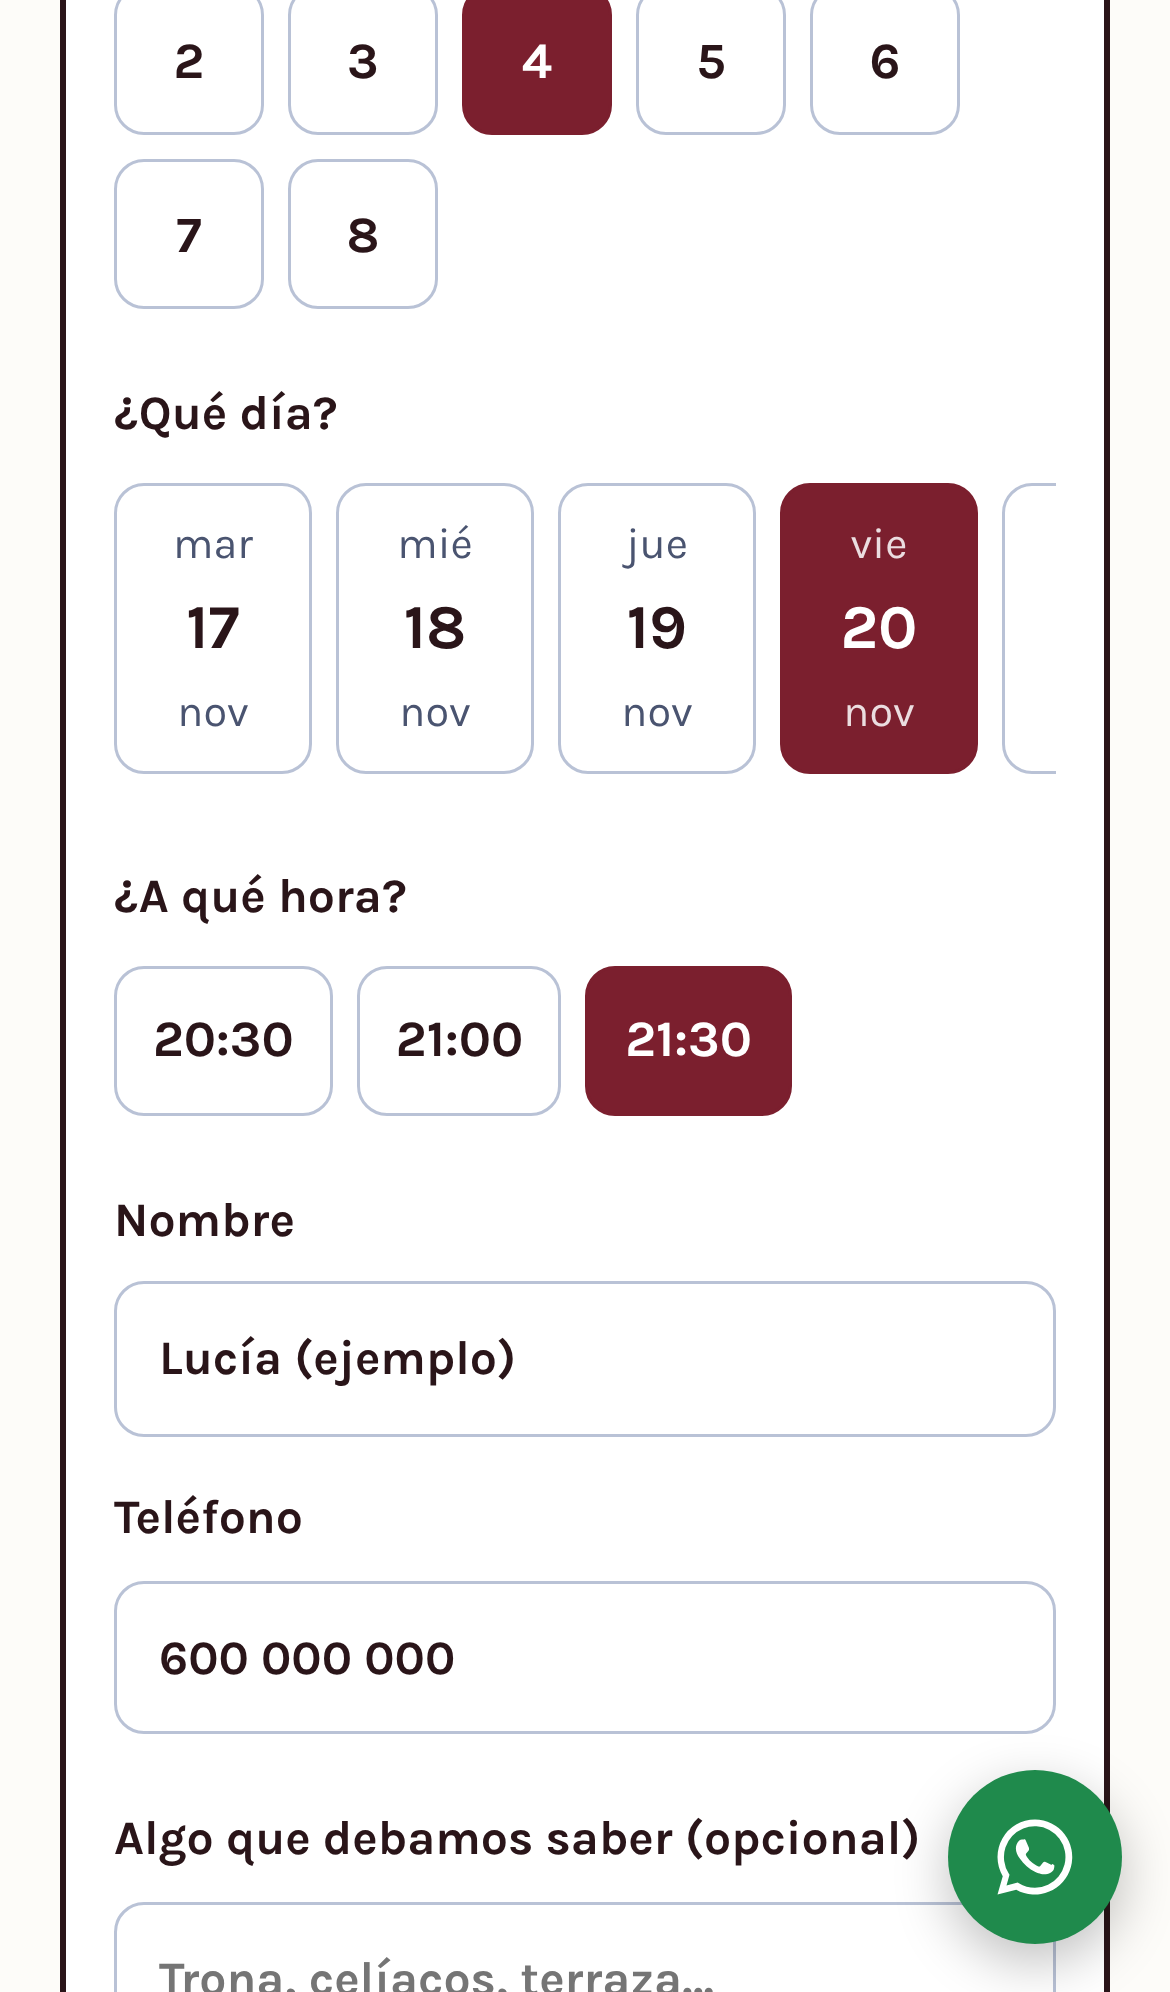
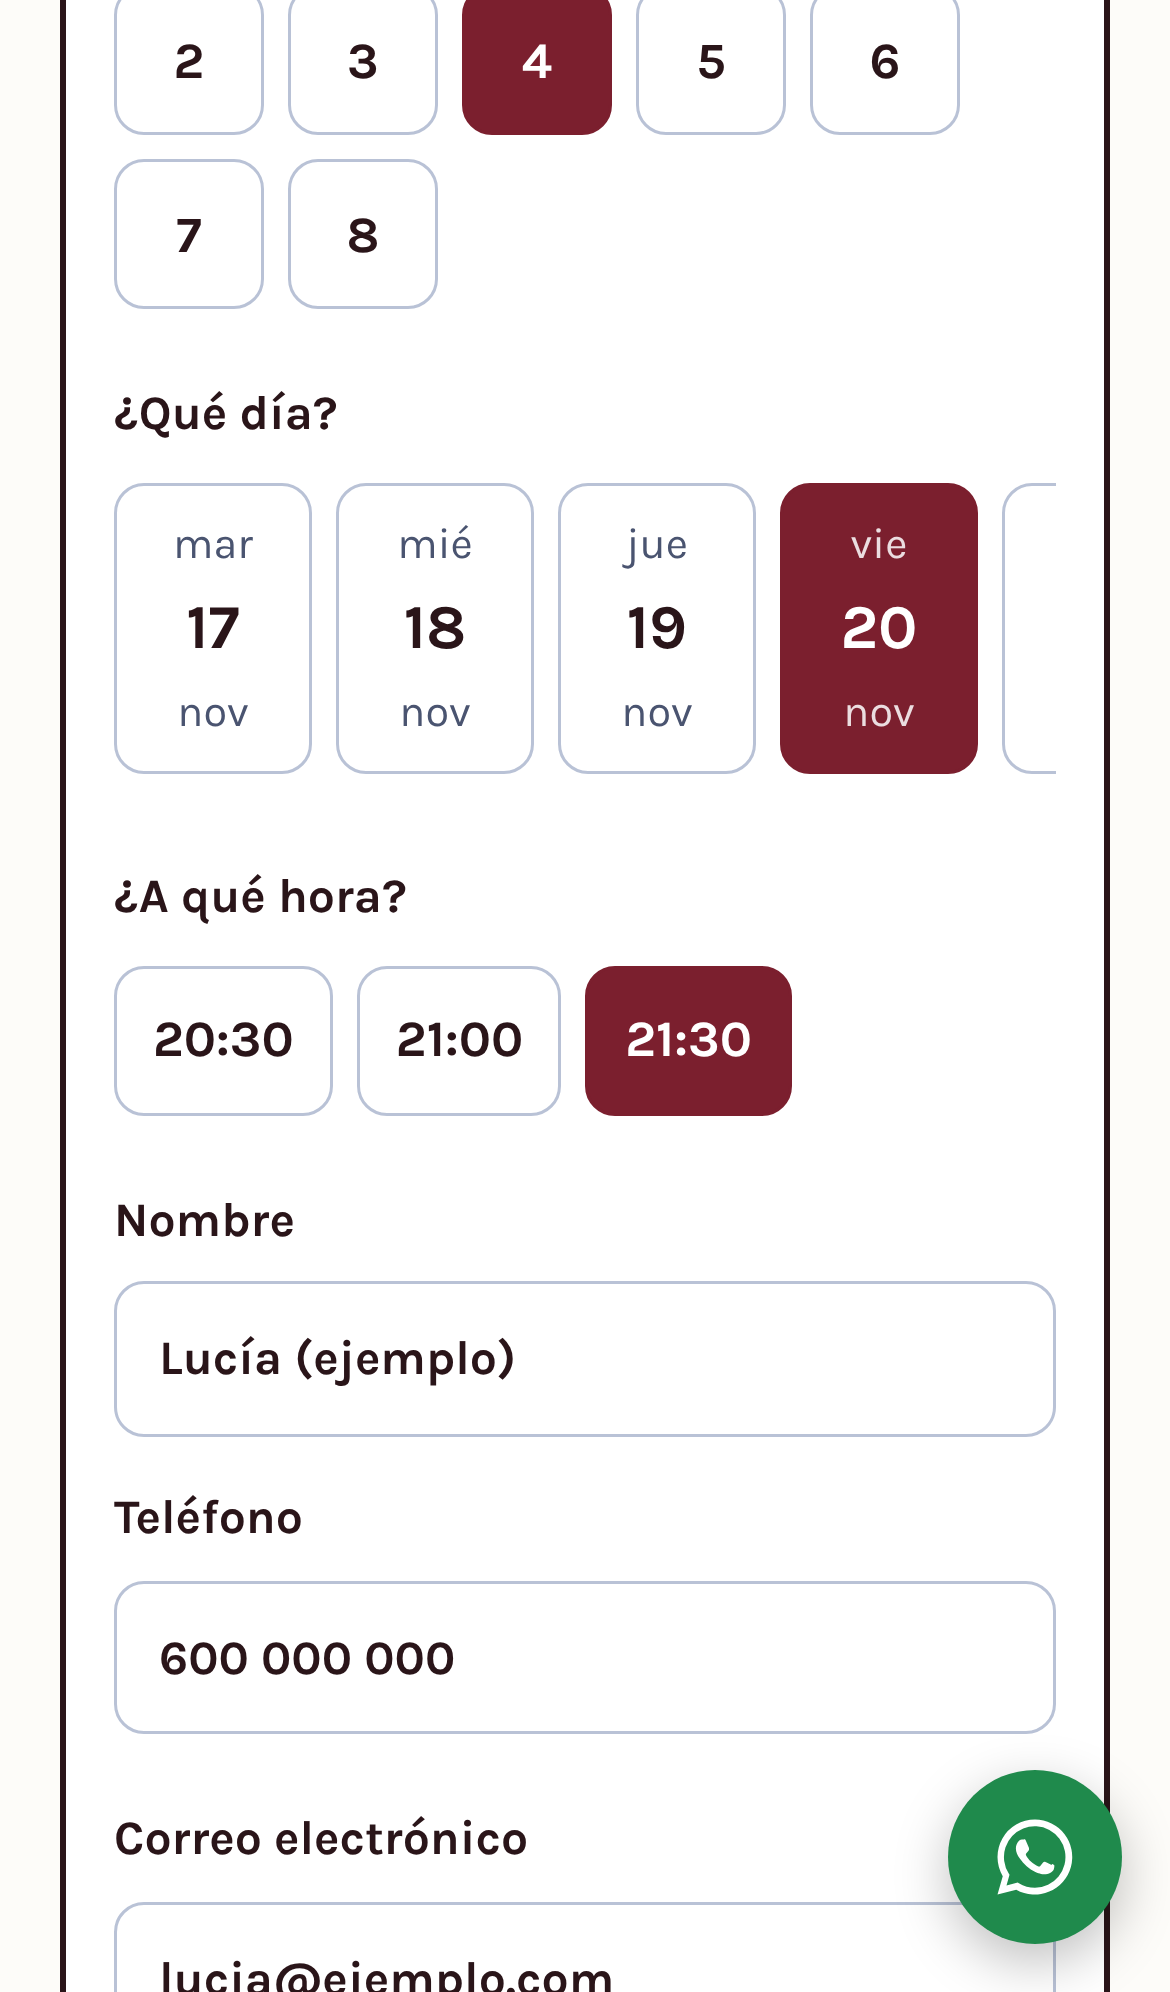
Reservas: correo obligatorio en el formulario y función de correos (confirmación, recordatorio y reseña)

Changed region(s): [[0.1231, 0.9649, 0.6154, 1.0], [0.0923, 0.9026, 0.8, 0.9337]]

diff --git a/taller/reservas/correos/index.ts b/taller/reservas/correos/index.ts
@@ -1,0 +1,70 @@
+// Función reservas-correos (Supabase Edge Function).
+// Manda a los clientes de las reservas: confirmación al reservar, recordatorio el día y, después, petición de reseña.
+// Solo para negocios con negocios.config.correos.activo = true. Sin RESEND_API_KEY no envía nada.
+// La llaman: el disparador al entrar una reserva (confirmación al momento) y pg_cron cada 15 min.
+// config.correos = { "activo": true, "telefono": "637847114", "whatsapp": "34637847114", "responder_a": "negocio@…",
+//                    "direccion": "Calle …", "resena_url": "https://g.page/r/…/review" }
+import { createClient } from "https://esm.sh/@supabase/supabase-js@2";
+
+const KEY = Deno.env.get("RESEND_API_KEY");
+const FROM = Deno.env.get("RESEND_FROM") || "reservas@iando.xyz";
+const db = createClient(Deno.env.get("SUPABASE_URL")!, Deno.env.get("SUPABASE_SERVICE_ROLE_KEY")!);
+
+const esc = (s: unknown) => String(s ?? "").replace(/[&<>"']/g, (c) => ({ "&": "&amp;", "<": "&lt;", ">": "&gt;", '"': "&quot;", "'": "&#39;" }[c]!));
+const hex = (v: unknown, d: string) => (typeof v === "string" && /^#[0-9a-f]{3,8}$/i.test(v) ? v : d);
+const fechaLarga = (f: string) => new Date(f + "T12:00:00").toLocaleDateString("es-ES", { weekday: "long", day: "numeric", month: "long", timeZone: "Europe/Madrid" });
+
+type P = { reserva_id: string; tipo: "confirmacion" | "recordatorio" | "resena"; email: string; nombre: string; servicio: string;
+  fecha: string; hora: string; duracion: number; notas: string | null; negocio: string; config: any };
+
+function correo(p: P) {
+  const t = p.config?.tema || {}, c = t.colores || {}, k = p.config?.correos || {};
+  const nom = t.nombre || p.negocio, oscuro = hex(c.oscuro, "#1d2320"), prim = hex(c.primario, "#1f3a2c"), fondo = hex(c.fondo, "#f6f5f1");
+  const hora = String(p.hora).slice(0, 5), dia = fechaLarga(p.fecha), pila = esc(String(p.nombre || "").split(" ")[0]);
+  const wa = /^\d{11,13}$/.test(k.whatsapp || "") ? `https://wa.me/${k.whatsapp}` : "";
+  const tel = /^\d{9}$/.test(k.telefono || "") ? k.telefono : "";
+  const contacto = wa || tel ? `<p style="margin:16px 0 0;font-size:15px;color:#555">¿Necesitas cambiarla o anularla? ${wa ? `<a href="${wa}" style="color:${prim}">Escríbenos por WhatsApp</a>` : ""}${wa && tel ? " o llama al " : tel ? "Llámanos al " : ""}${tel ? `<a href="tel:+34${tel}" style="color:${prim}">${tel.replace(/(\d{3})(\d{3})(\d{3})/, "$1 $2 $3")}</a>` : ""}.</p>` : "";
+  const ficha = `<table role="presentation" style="width:100%;border-collapse:collapse;margin:18px 0;background:${fondo};border-radius:10px">
+    <tr><td style="padding:14px 16px;font-size:16px;line-height:1.6;color:#222"><b>${esc(p.servicio)}</b><br>${esc(dia)} a las <b>${hora}</b>${p.notas ? `<br><span style="color:#555">${esc(p.notas)}</span>` : ""}${k.direccion ? `<br><span style="color:#555">${esc(k.direccion)}</span>` : ""}</td></tr></table>`;
+  let asunto = "", cuerpo = "";
+  if (p.tipo === "confirmacion") {
+    asunto = `Reserva confirmada: ${dia} a las ${hora}`;
+    cuerpo = `<h1 style="margin:0 0 8px;font-size:24px;color:#111">¡Hecho, ${pila}!</h1><p style="margin:0;font-size:16px;color:#333">Tu reserva en ${esc(nom)} está apuntada.</p>${ficha}${contacto}`;
+  } else if (p.tipo === "recordatorio") {
+    const hoy = new Date().toLocaleDateString("en-CA", { timeZone: "Europe/Madrid" }) === p.fecha;
+    asunto = `${hoy ? "Hoy" : "Mañana"} a las ${hora} en ${nom}`;
+    cuerpo = `<h1 style="margin:0 0 8px;font-size:24px;color:#111">${hoy ? "Hoy" : "Mañana"} te esperamos</h1><p style="margin:0;font-size:16px;color:#333">Te recordamos tu reserva en ${esc(nom)}.</p>${ficha}${contacto}`;
+  } else {
+    asunto = `¿Qué tal en ${nom}?`;
+    cuerpo = `<h1 style="margin:0 0 8px;font-size:24px;color:#111">Gracias por venir, ${pila}</h1><p style="margin:0 0 20px;font-size:16px;color:#333">Si te gustó, nos ayuda mucho que lo cuentes en Google. Es un minuto.</p>
+      <p style="margin:0"><a href="${esc(k.resena_url)}" style="display:inline-block;background:${prim};color:#fff;text-decoration:none;font-weight:bold;padding:14px 22px;border-radius:10px;font-size:16px">Dejar mi opinión</a></p>`;
+  }
+  const html = `<!doctype html><html lang="es"><body style="margin:0;background:#eeeeee;font-family:Arial,Helvetica,sans-serif">
+  <table role="presentation" style="width:100%;border-collapse:collapse"><tr><td align="center" style="padding:24px 12px">
+  <table role="presentation" style="width:100%;max-width:560px;border-collapse:collapse;background:#fff;border-radius:14px;overflow:hidden">
+  <tr><td style="background:${oscuro};padding:18px 24px;color:#fff;font-size:20px;font-weight:bold">${esc(nom)}</td></tr>
+  <tr><td style="padding:26px 24px 30px">${cuerpo}</td></tr></table>
+  <p style="font-size:12px;color:#888;margin:14px 0 0">Recibes este correo por tu reserva en ${esc(nom)}.</p></td></tr></table></body></html>`;
+  return { asunto, html, nom, responder: typeof k.responder_a === "string" && k.responder_a.includes("@") ? k.responder_a : undefined };
+}
+
+Deno.serve(async () => {
+  const { data, error } = await db.rpc("correos_pendientes");
+  if (error) return Response.json({ ok: false, error: error.message }, { status: 500 });
+  const lista = (data || []) as P[];
+  if (!KEY) return Response.json({ ok: true, sin_clave: true, pendientes: lista.length });
+  const res: Record<string, number> = { enviados: 0, fallos: 0 };
+  for (const p of lista) {
+    const tag = "email_" + p.tipo;
+    const { data: mio } = await db.rpc("reclamar_aviso", { p_reserva: p.reserva_id, p_tag: tag });
+    if (!mio) continue;
+    const m = correo(p);
+    const r = await fetch("https://api.resend.com/emails", {
+      method: "POST", headers: { Authorization: `Bearer ${KEY}`, "Content-Type": "application/json" },
+      body: JSON.stringify({ from: `${m.nom} <${FROM}>`, to: [p.email], subject: m.asunto, html: m.html, reply_to: m.responder }),
+    });
+    if (r.ok) res.enviados++;
+    else { res.fallos++; console.error("resend", r.status, await r.text()); await db.rpc("soltar_aviso", { p_reserva: p.reserva_id, p_tag: tag }); }
+  }
+  return Response.json({ ok: true, ...res });
+});

diff --git a/demos/bar-ejemplo/index.html b/demos/bar-ejemplo/index.html
@@ -317,8 +317,9 @@
             <label>Nombre<input id="rv-nombre" autocomplete="name" maxlength="120" required></label>
             <label>Teléfono<input id="rv-tel" type="tel" inputmode="tel" autocomplete="tel" maxlength="20" placeholder="600 000 000" required></label>
           </div>
+          <label>Correo electrónico<input id="rv-email" type="email" inputmode="email" autocomplete="email" maxlength="160" placeholder="tu@correo.com" required></label>
           <label>Algo que debamos saber (opcional)<textarea id="rv-notas" rows="2" maxlength="400" placeholder="Trona, celíacos, terraza…"></textarea></label>
-          <label class="rv-check"><input type="checkbox" id="rv-ok" required> Acepto que usen mis datos solo para gestionar esta reserva.</label>
+          <label class="rv-check"><input type="checkbox" id="rv-ok" required> Acepto que usen mis datos para gestionar esta reserva y que me envíen por correo la confirmación, un recordatorio y, después, un enlace para dejar mi opinión.</label>
           <div class="resumen" id="rv-resumen" aria-live="polite"><span>Tu mesa:</span> <b id="rv-res-txt">elige turno, personas, día y hora</b></div>
           <button class="btn btn-res" type="submit" id="rv-enviar">Reservar mesa</button>
           <p id="rv-estado" class="rv-estado" role="status" aria-live="polite"></p>
@@ -497,11 +498,13 @@
     if (!sel.hora) return estado("Elige una hora.", "mal");
     if (!nombre) return estado("Escribe tu nombre.", "mal");
     if (!/^(34)?[6-9]\d{8}$/.test(tel)) return estado("Revisa el teléfono (9 cifras).", "mal");
+    var email = $("rv-email").value.trim();
+    if (!/^[^@\s]+@[^@\s]+\.[a-z]{2,}$/i.test(email)) return estado("Revisa el correo electrónico.", "mal");
     if (!$("rv-ok").checked) return estado("Marca la casilla de privacidad.", "mal");
     var notas = sel.personas + " personas" + ($("rv-notas").value.trim() ? " · " + $("rv-notas").value.trim() : "");
     $("rv-enviar").disabled = true; estado("Reservando…");
     fetch(SB + "/rest/v1/rpc/reservar_hueco", { method: "POST", headers: H, body: JSON.stringify({
-      p_negocio_id: NEGOCIO, p_nombre: nombre, p_telefono: tel.slice(-9), p_email: null,
+      p_negocio_id: NEGOCIO, p_nombre: nombre, p_telefono: tel.slice(-9), p_email: email,
       p_servicio_id: servicios[sel.turno].id, p_fecha: sel.fecha, p_hora: sel.hora, p_notas: notas }) })
       .then(function (r) { return r.json(); })
       .then(function (res) {

diff --git a/demos/taller-ejemplo/index.html b/demos/taller-ejemplo/index.html
@@ -346,8 +346,9 @@
               <label>Nombre<input id="rv-nombre" autocomplete="name" maxlength="120" required></label>
               <label>Teléfono<input id="rv-tel" type="tel" inputmode="tel" autocomplete="tel" maxlength="20" placeholder="600 000 000" required></label>
             </div>
+            <label>Correo electrónico<input id="rv-email" type="email" inputmode="email" autocomplete="email" maxlength="160" placeholder="tu@correo.com" required></label>
             <label>Coche y lo que notas (opcional)<textarea id="rv-notas" rows="2" maxlength="500" placeholder="Modelo, matrícula o lo que le pasa"></textarea></label>
-            <label class="rv-check"><input type="checkbox" id="rv-ok" required> Acepto que usen mis datos solo para gestionar esta cita.</label>
+            <label class="rv-check"><input type="checkbox" id="rv-ok" required> Acepto que usen mis datos para gestionar esta cita y que me envíen por correo la confirmación, un recordatorio y, después, un enlace para dejar mi opinión.</label>
             <button class="btn btn-res" type="submit" id="rv-enviar">Pedir mi cita</button>
             <p id="rv-estado" class="rv-estado" role="status" aria-live="polite"></p>
           </form>
@@ -421,10 +422,12 @@
       if (!hora) return estado("Elige una hora.", "mal");
       if (!nombre) return estado("Escribe tu nombre.", "mal");
       if (!/^(34)?[6-9]\d{8}$/.test(tel)) return estado("Revisa el teléfono (9 cifras).", "mal");
+      var email = $("rv-email").value.trim();
+      if (!/^[^@\s]+@[^@\s]+\.[a-z]{2,}$/i.test(email)) return estado("Revisa el correo electrónico.", "mal");
       if (!$("rv-ok").checked) return estado("Marca la casilla de privacidad.", "mal");
       $("rv-enviar").disabled = true; estado("Pidiendo la cita…");
       fetch(SB + "/rest/v1/rpc/reservar_hueco", { method: "POST", headers: H, body: JSON.stringify({
-        p_negocio_id: NEGOCIO, p_nombre: nombre, p_telefono: tel.slice(-9), p_email: null,
+        p_negocio_id: NEGOCIO, p_nombre: nombre, p_telefono: tel.slice(-9), p_email: email,
         p_servicio_id: serv, p_fecha: $("rv-fecha").value, p_hora: hora, p_notas: $("rv-notas").value.trim() || null }) })
         .then(function (r) { return r.json(); })
         .then(function (res) {

diff --git a/demos/peluqueria-ejemplo/index.html b/demos/peluqueria-ejemplo/index.html
@@ -328,8 +328,9 @@
             <label>Nombre<input id="rv-nombre" autocomplete="name" maxlength="120" required></label>
             <label>Teléfono<input id="rv-tel" type="tel" inputmode="tel" autocomplete="tel" maxlength="20" placeholder="600 000 000" required></label>
           </div>
+          <label>Correo electrónico<input id="rv-email" type="email" inputmode="email" autocomplete="email" maxlength="160" placeholder="tu@correo.com" required></label>
           <label>Comentario (opcional)<textarea id="rv-notas" rows="2" maxlength="500"></textarea></label>
-          <label class="rv-check"><input type="checkbox" id="rv-ok" required> Acepto que usen mis datos solo para gestionar esta cita.</label>
+          <label class="rv-check"><input type="checkbox" id="rv-ok" required> Acepto que usen mis datos para gestionar esta cita y que me envíen por correo la confirmación, un recordatorio y, después, un enlace para dejar mi opinión.</label>
           <button class="btn btn-res" type="submit" id="rv-enviar">Reservar mi cita</button>
           <p id="rv-estado" class="rv-estado" role="status" aria-live="polite"></p>
         </form>
@@ -399,10 +400,12 @@
       if (!hora) return estado("Elige una hora.", "mal");
       if (!nombre) return estado("Escribe tu nombre.", "mal");
       if (!/^(34)?[6-9]\d{8}$/.test(tel)) return estado("Revisa el teléfono (9 cifras).", "mal");
+      var email = $("rv-email").value.trim();
+      if (!/^[^@\s]+@[^@\s]+\.[a-z]{2,}$/i.test(email)) return estado("Revisa el correo electrónico.", "mal");
       if (!$("rv-ok").checked) return estado("Marca la casilla de privacidad.", "mal");
       $("rv-enviar").disabled = true; estado("Reservando…");
       fetch(SB + "/rest/v1/rpc/reservar_hueco", { method: "POST", headers: H, body: JSON.stringify({
-        p_negocio_id: NEGOCIO, p_nombre: nombre, p_telefono: tel.slice(-9), p_email: null,
+        p_negocio_id: NEGOCIO, p_nombre: nombre, p_telefono: tel.slice(-9), p_email: email,
         p_servicio_id: $("rv-serv").value, p_fecha: $("rv-fecha").value, p_hora: hora, p_notas: $("rv-notas").value.trim() || null }) })
         .then(function (r) { return r.json(); })
         .then(function (res) {

diff --git a/taller/reservas/widget-reservas.html b/taller/reservas/widget-reservas.html
@@ -16,8 +16,9 @@
         <label>Nombre<input id="rv-nombre" autocomplete="name" maxlength="120" required></label>
         <label>Teléfono<input id="rv-tel" type="tel" inputmode="tel" autocomplete="tel" maxlength="20" placeholder="600 000 000" required></label>
       </div>
+      <label>Correo electrónico<input id="rv-email" type="email" inputmode="email" autocomplete="email" maxlength="160" placeholder="tu@correo.com" required></label>
       <label>Comentario (opcional)<textarea id="rv-notas" rows="2" maxlength="500"></textarea></label>
-      <label class="rv-check"><input type="checkbox" id="rv-ok" required> Acepto que usen mis datos solo para gestionar esta cita.</label>
+      <label class="rv-check"><input type="checkbox" id="rv-ok" required> Acepto que usen mis datos para gestionar esta cita y que me envíen por correo la confirmación, un recordatorio y, después, un enlace para dejar mi opinión.</label>
       <button class="btn btn-wa" type="submit" id="rv-enviar">Reservar</button>
       <p id="rv-estado" class="rv-estado" role="status" aria-live="polite"></p>
     </form>
@@ -86,10 +87,12 @@
     if (!hora) return estado("Elige una hora.", "mal");
     if (!nombre) return estado("Escribe tu nombre.", "mal");
     if (!/^(34)?[6-9]\d{8}$/.test(tel)) return estado("Revisa el teléfono (9 cifras).", "mal");
+    var email = $("rv-email").value.trim();
+    if (!/^[^@\s]+@[^@\s]+\.[a-z]{2,}$/i.test(email)) return estado("Revisa el correo electrónico.", "mal");
     if (!$("rv-ok").checked) return estado("Marca la casilla de privacidad.", "mal");
     $("rv-enviar").disabled = true; estado("Reservando…");
     fetch(SB + "/rest/v1/rpc/reservar_hueco", { method: "POST", headers: H, body: JSON.stringify({
-      p_negocio_id: NEGOCIO, p_nombre: nombre, p_telefono: tel.slice(-9), p_email: null,
+      p_negocio_id: NEGOCIO, p_nombre: nombre, p_telefono: tel.slice(-9), p_email: email,
       p_servicio_id: $("rv-serv").value, p_fecha: $("rv-fecha").value, p_hora: hora, p_notas: $("rv-notas").value.trim() || null }) })
       .then(function (r) { return r.json(); })
       .then(function (res) {

diff --git a/demos/bar-ejemplo/capturas-script/capturas.py b/demos/bar-ejemplo/capturas-script/capturas.py
@@ -82,7 +82,7 @@ with sync_playwright() as p:
             pg.click('[data-turno="cenar"]'); pg.click('[data-p="4"]')
             dias = pg.locator("#rv-dias .opc"); dias.nth(min(3, dias.count() - 1)).click(); pg.wait_for_timeout(400)
             pg.click('#rv-horas [data-h="21:30"]')
-            pg.fill("#rv-nombre", "Lucía (ejemplo)"); pg.fill("#rv-tel", "600 000 000"); pg.check("#rv-ok")
+            pg.fill("#rv-nombre", "Lucía (ejemplo)"); pg.fill("#rv-tel", "600 000 000"); pg.fill("#rv-email", "lucia@ejemplo.com"); pg.check("#rv-ok")
             pg.locator("#rv-form legend").first.scroll_into_view_if_needed(); pg.evaluate("window.scrollBy(0,-20)")
             pg.wait_for_timeout(300); pg.screenshot(path=str(out / "movil-reserva.png"))
             pg.locator("#rv-dias").scroll_into_view_if_needed(); pg.evaluate("window.scrollBy(0, 120)"); pg.wait_for_timeout(200)

diff --git a/demos/taller-ejemplo/capturas-script/capturas.py b/demos/taller-ejemplo/capturas-script/capturas.py
@@ -73,6 +73,7 @@ with sync_playwright() as p:
             pg.click("#rv-horas button >> nth=2")
             pg.fill("#rv-nombre", "Marta")
             pg.fill("#rv-tel", "600 123 456")
+            pg.fill("#rv-email", "antonio@ejemplo.com")
             pg.fill("#rv-notas", "Seat Ibiza, chirría la rueda delantera")
             pg.check("#rv-ok")
             pg.add_style_tag(content=".wa-flota{display:none!important}")
